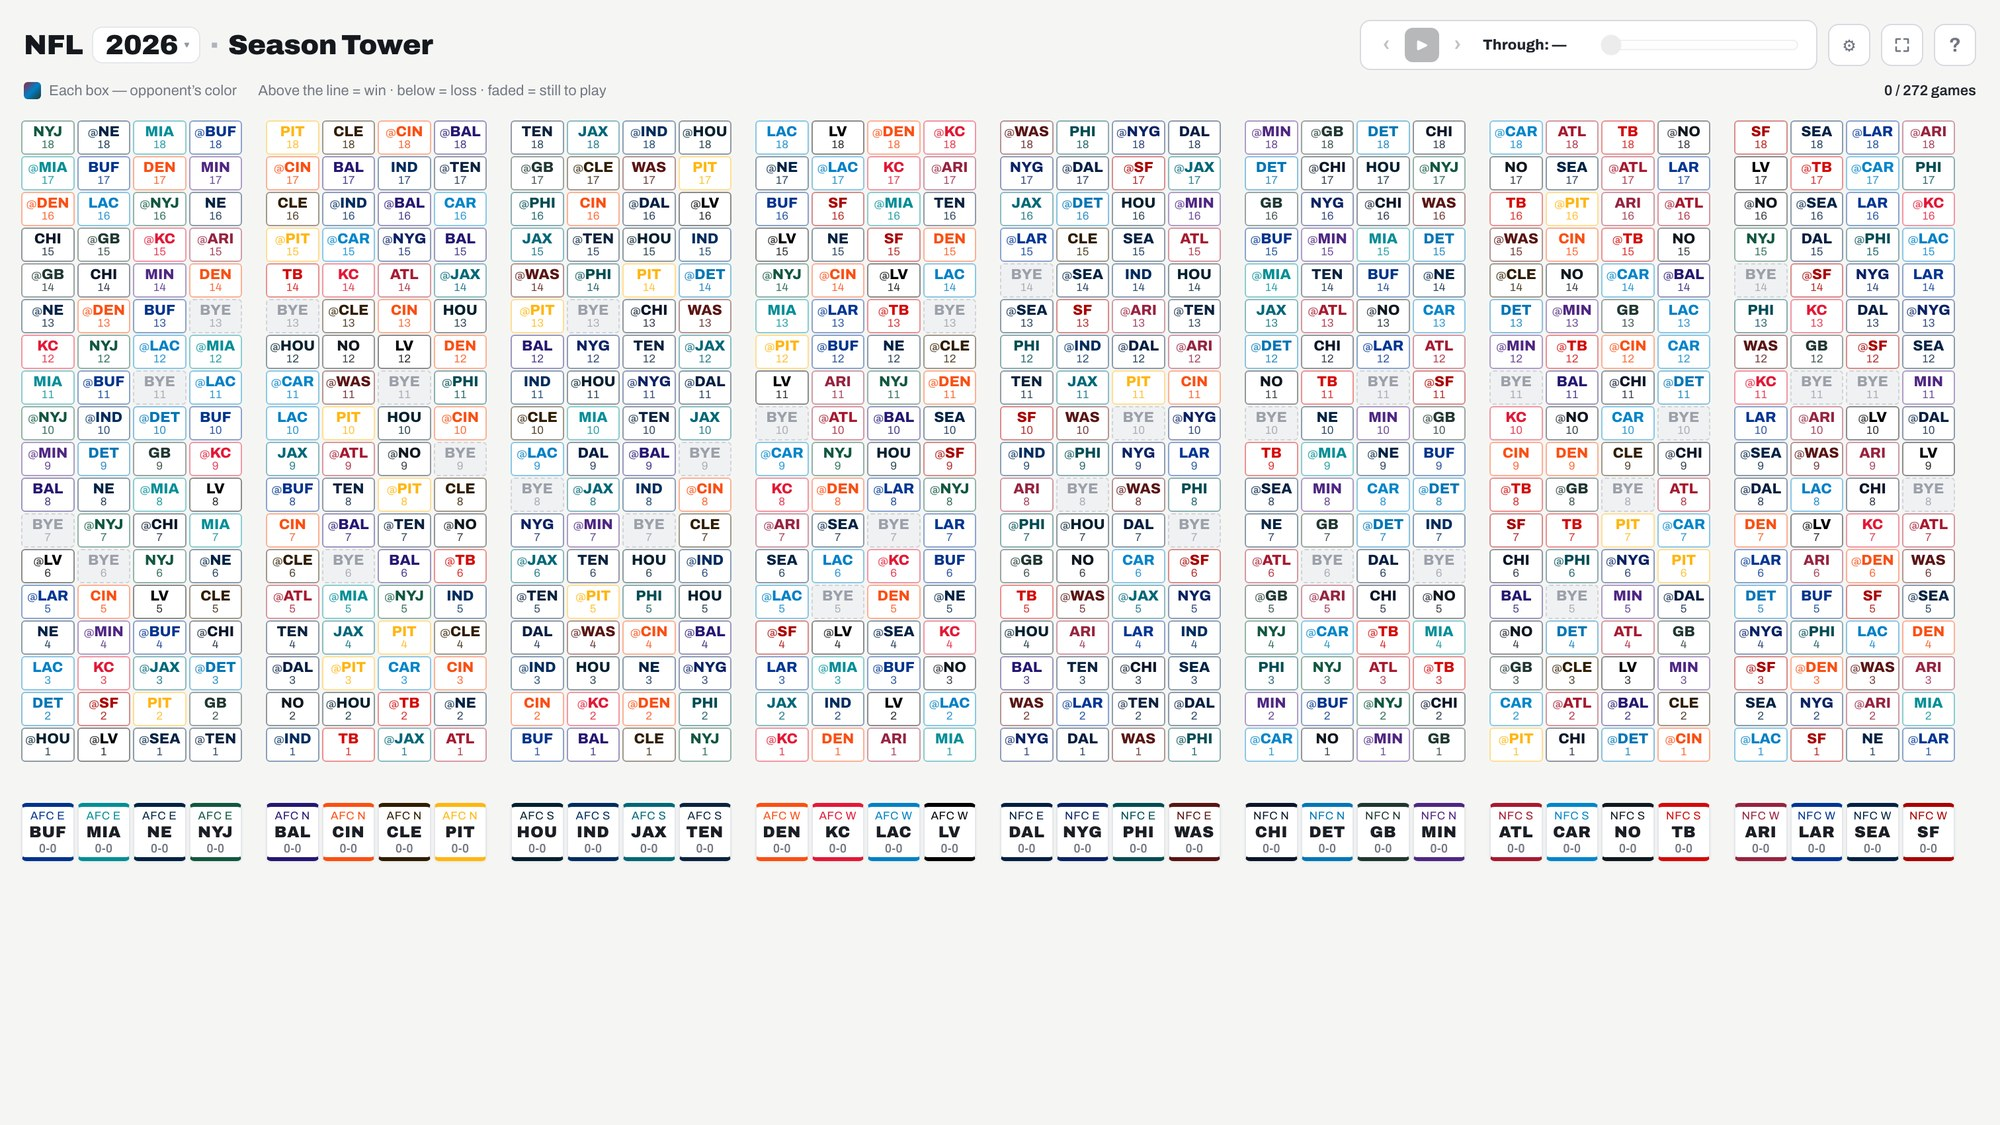
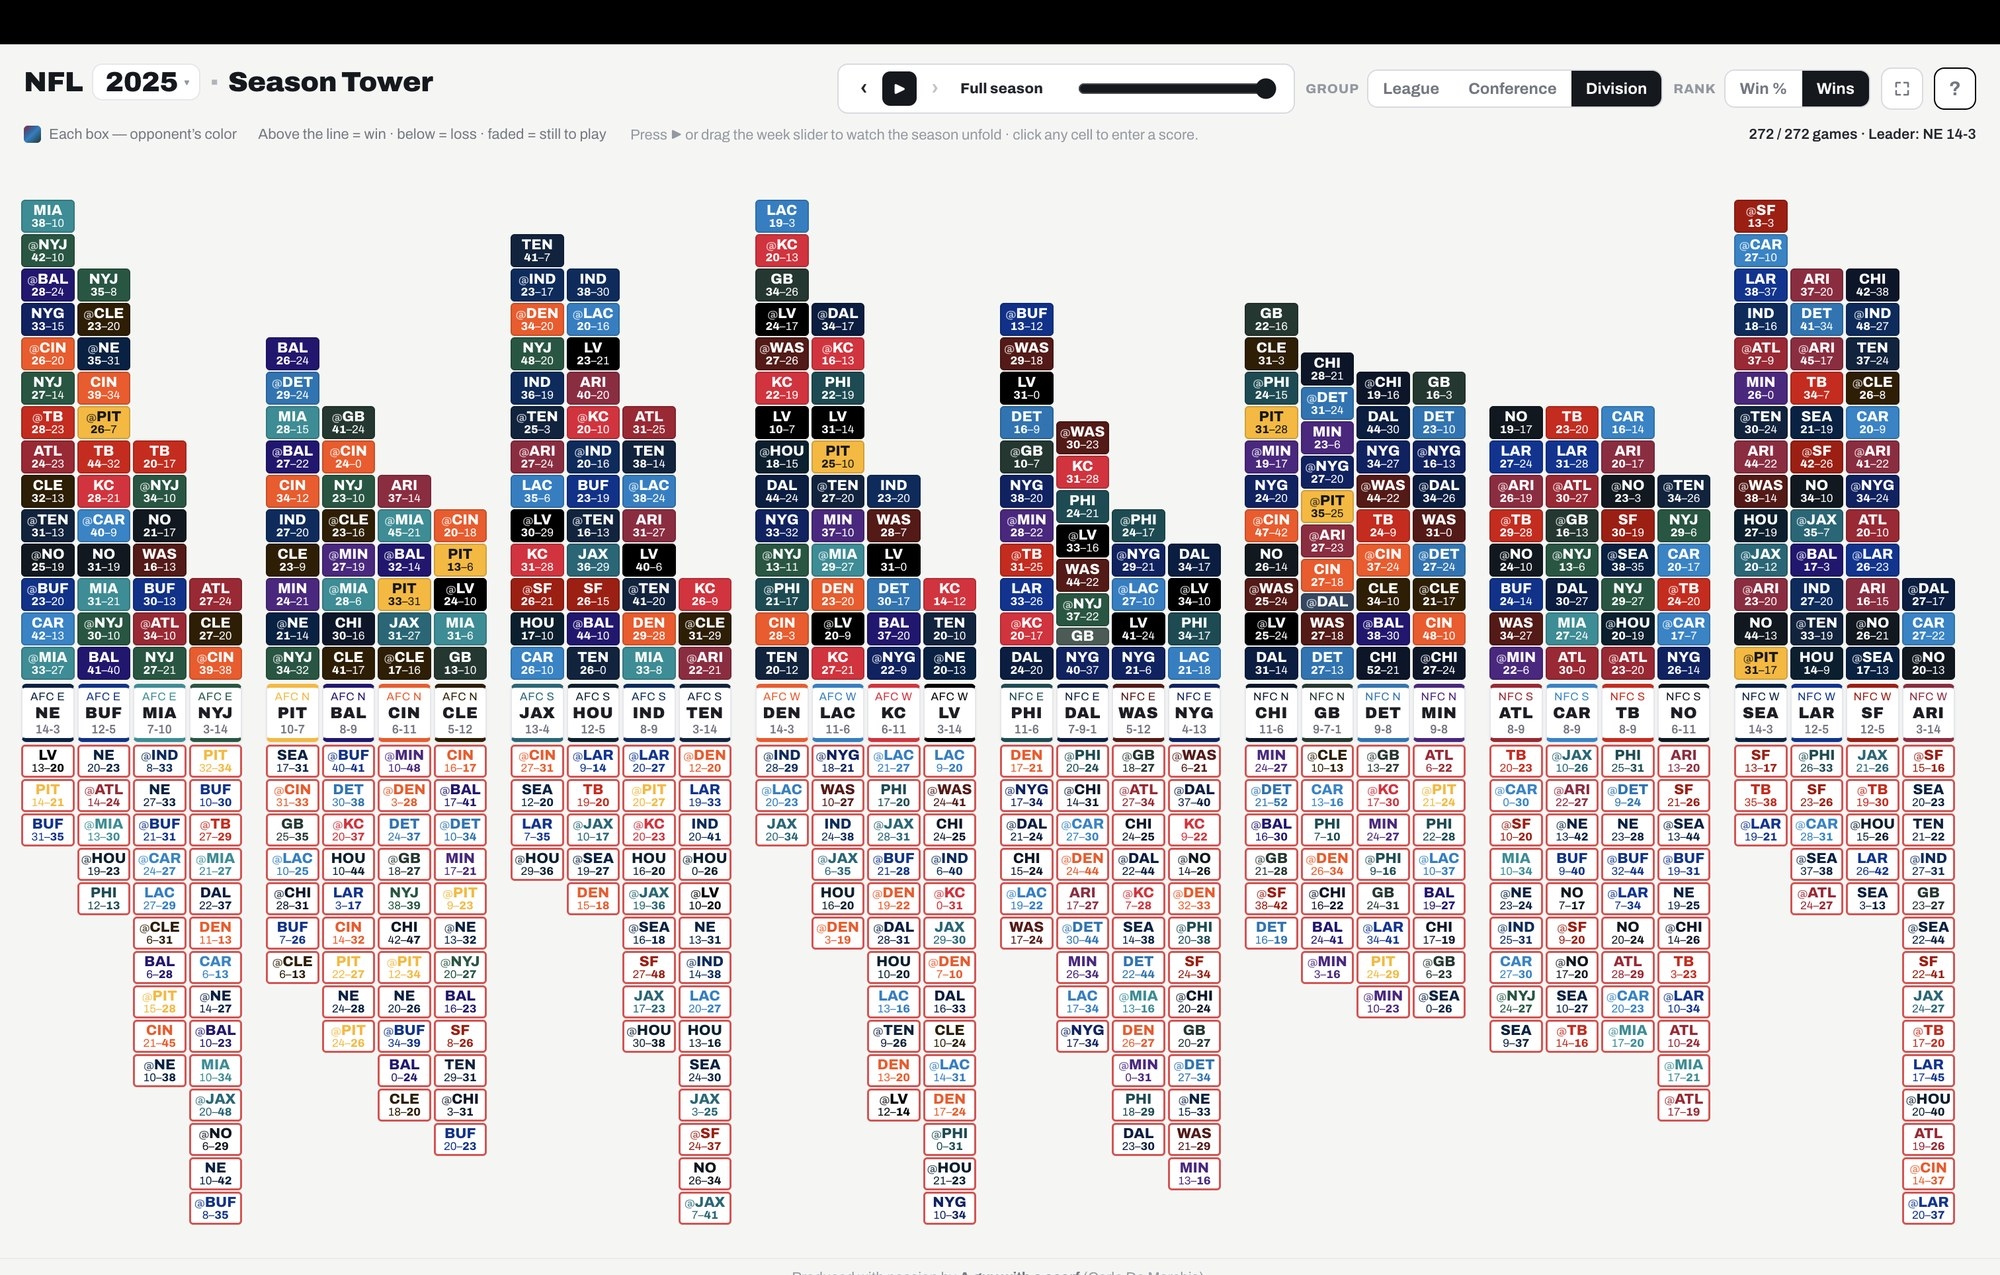
NFL hero: completed 2025 season with the towers formed
Replaces the 0/272 pre-kickoff grid. Kept at its native 1.57 aspect via
a .natural modifier — a 16:9 crop would cut the deepest loss towers off
the bottom, which is the half of the mechanic the copy is about.

diff --git a/index.html b/index.html
@@ -275,6 +275,8 @@ a.card:hover, a.card:focus-visible{transform:translateY(-4px); border-color:colo
 }
 .feat-sm .shot{border-radius:16px; box-shadow:0 18px 44px -26px rgba(0,0,0,.85)}
 .feat-sm .shot img{aspect-ratio:auto; object-fit:fill}
+/* a feature whose screenshot must not be cropped at all */
+.feat.natural .shot img{aspect-ratio:auto; object-fit:fill}
 .feat-sm .shot::after{background:none}
 .feat-sm .copy{display:block; margin-top:0}
 .feat-sm .copy h3{font-size:clamp(24px,2.7vw,32px); margin-bottom:14px}
@@ -473,10 +475,10 @@ footer{
     </article>
 
     <!-- ============ NFL ============ -->
-    <article class="feat" style="--acc:#4d94e0">
+    <article class="feat natural" style="--acc:#4d94e0">
       <a class="shot" href="https://nfl.aguywithascarf.com/" aria-label="Open the NFL Season Tower">
-        <img src="img/nfl.jpg" width="2000" height="1125"
-             alt="The NFL Season Tower: all thirty-two teams grouped by division, each a tower of games with wins above the baseline and losses below.">
+        <img src="img/nfl.jpg" width="2000" height="1275"
+             alt="The NFL Season Tower showing a completed season: all thirty-two teams grouped by division, each a tower of games with wins stacked above the baseline and losses hanging below it.">
       </a>
       <div class="copy">
         <p class="kicker">NFL · Season Tower</p>
